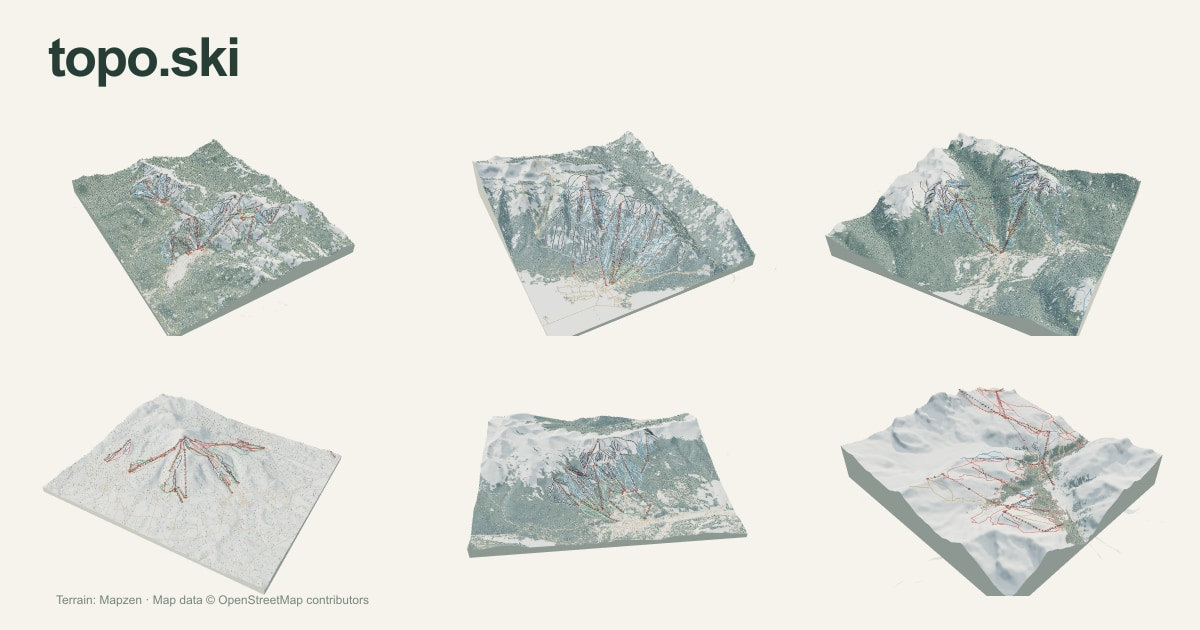
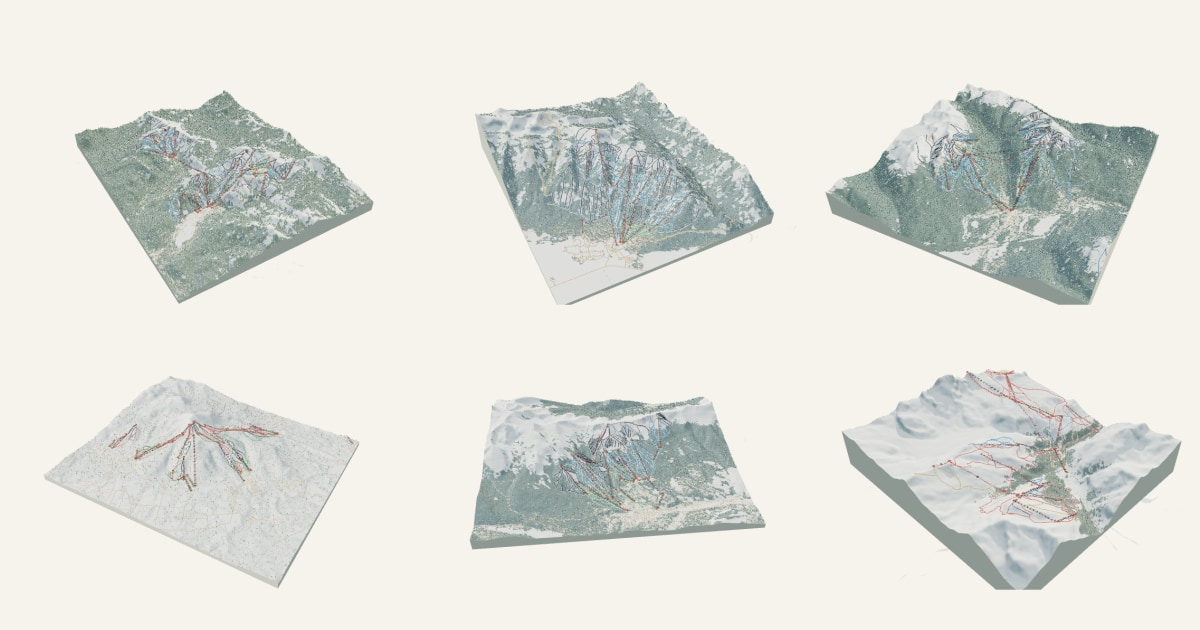
Make homepage share preview a text-free mountain grid

diff --git a/src/social.ts b/src/social.ts
@@ -9,8 +9,8 @@ export function socialMetadata(pathname:string){
   title:resort?`${resort.name} · topo.ski`:about?'About · topo.ski':'topo.ski · Ski maps in 3D',
   description:resort?`Explore ${resort.name}, ${resort.area}, in 3D. Discover the mountain’s terrain, trails and lifts.`:'A little closer to the mountains. Explore ski terrain, trails and lifts in an interactive 3D atlas.',
   url:`${siteOrigin}/${resort?.id??(about?'about':'')}`,
-  image:`${siteOrigin}/social/${resort?.id??'home'}.jpg?v=2`,
-  imageAlt:resort?`A 3D terrain map of ${resort.name} with ski trails and lifts.`:'A grid of six 3D ski mountain maps beneath the topo.ski wordmark.',
+  image:`${siteOrigin}/social/${resort?.id??'home'}.jpg?v=3`,
+  imageAlt:resort?`A 3D terrain map of ${resort.name} with ski trails and lifts.`:'A grid of six 3D ski mountain maps, without text.',
  };
 }
 export function updateSocialMetadata(pathname:string){

diff --git a/README.md b/README.md
@@ -96,7 +96,7 @@ clearings remain visible. CAT routes and access boundaries are still unverified.
 ### Link previews and icons
 
 Shared mountain URLs have static Open Graph / large-image social metadata and a
-1200 × 630 JPEG of that resort's actual terrain render. The homepage shows a six-mountain grid beneath the topo.ski wordmark. SVG, ICO and PNG favicon variants plus Apple touch / home-screen icons are
+1200 × 630 JPEG of that resort's actual terrain render. The homepage shows a six-mountain grid without text. SVG, ICO and PNG favicon variants plus Apple touch / home-screen icons are
 included. Preview URLs use the current production origin, `https://toposki.vercel.app`;
 update `siteOrigin` in `src/social.ts` when moving to a custom domain.
 
